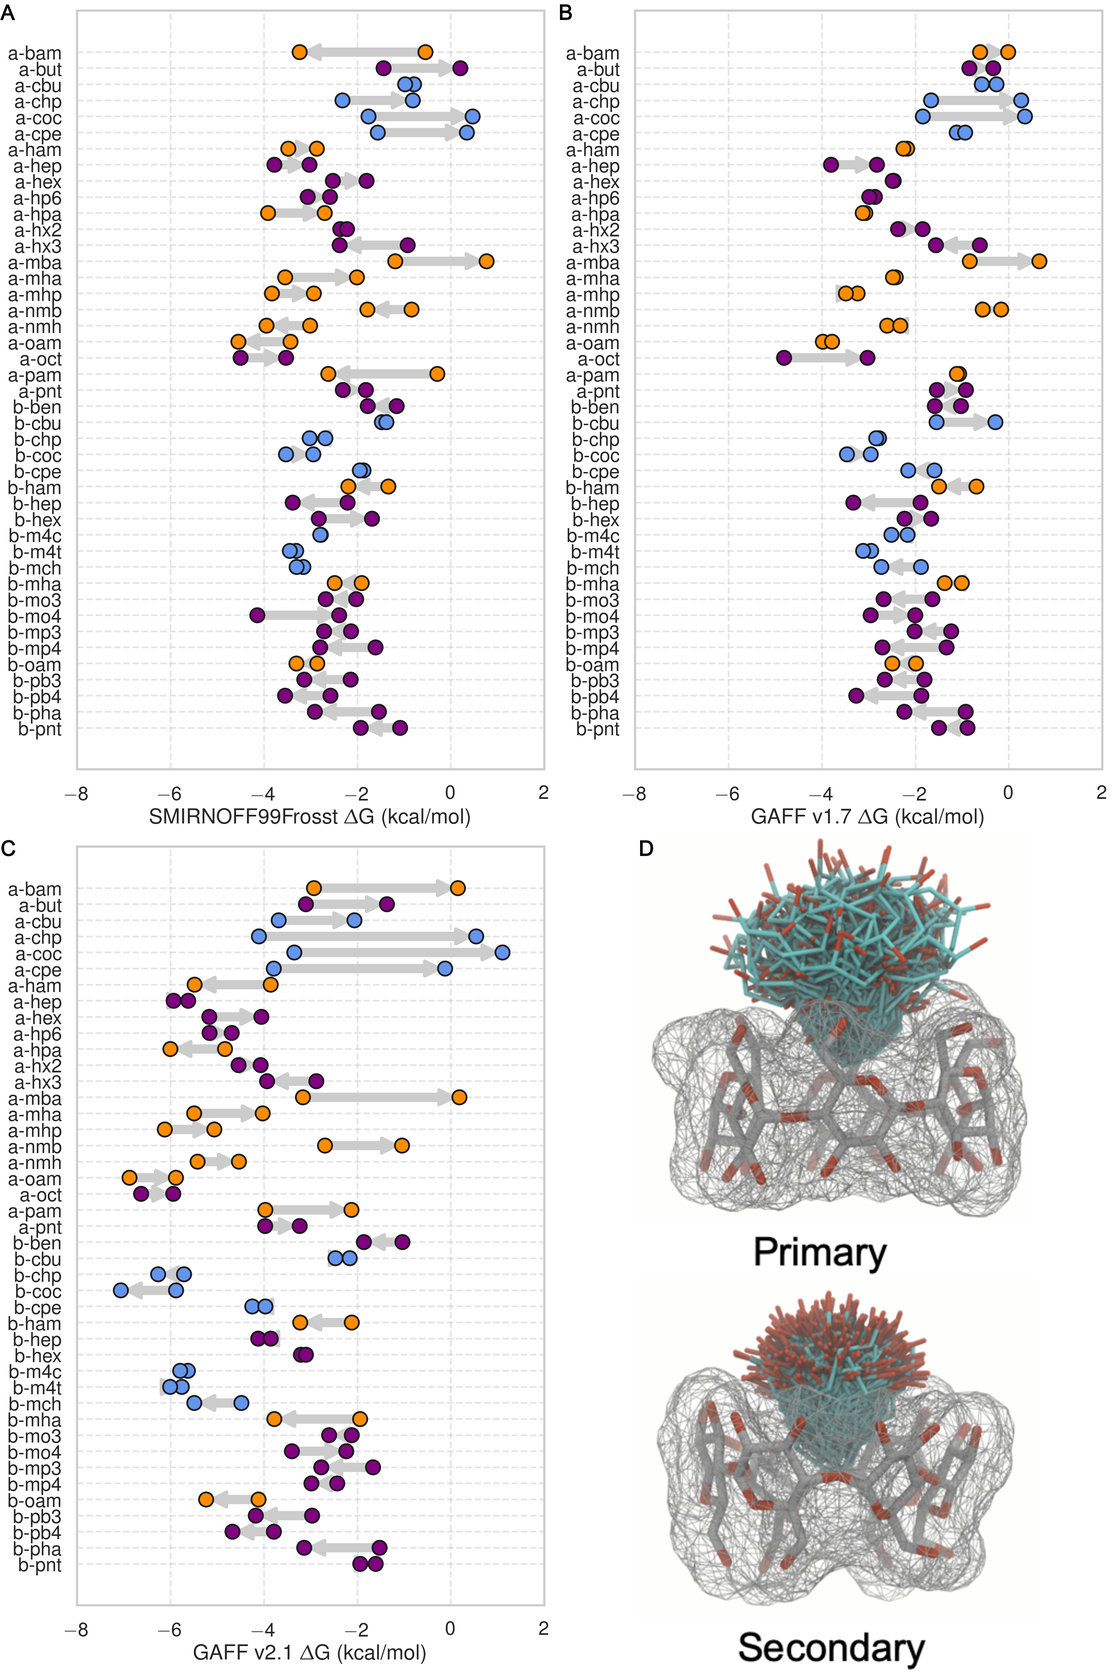
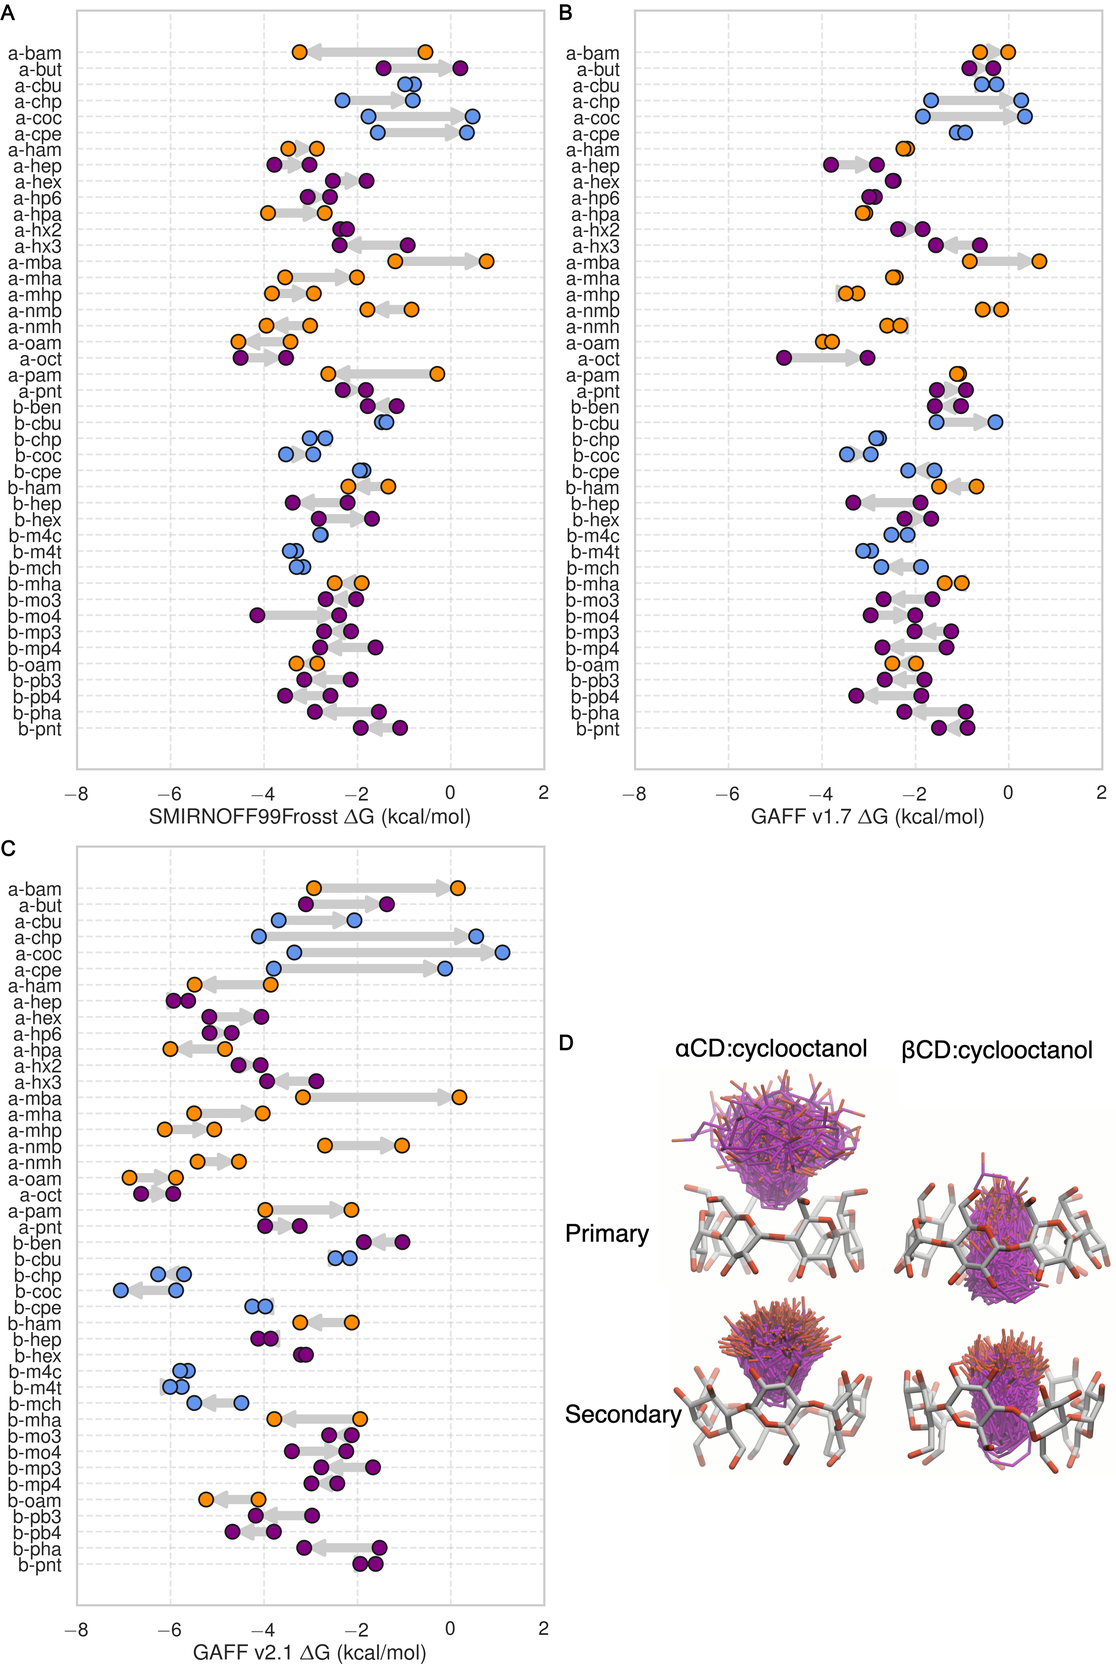
MKG edits through methods (#54)
* Edits to Abstract

Various small edits for style and clarity, and a couple of suggestions rendered as **comment**.

* Minor edits to Introduction for style and clarity

Nothing earth-shattering...

* Partial edits of Methods... tbc

* Minor edits

Made some edits for clarity and style and added a few queries/comment for your consideration, Dave.

* Update methods; update cyclooctanol figure

* Merge in updates to abstract and introduction

Changed region(s): [[0.5273, 0.4995, 0.9925, 0.999], [0.5273, 0.718, 0.5893, 0.7492]]

diff --git a/build/merge-subfigures.py b/build/merge-subfigures.py
@@ -3,8 +3,9 @@ import subprocess
 import argparse
 import logging
 
+
 def int_to_letter(int):
-    alphabet = list('abcdefghijklmnopqrstuvwxyz'.upper())
+    alphabet = list("abcdefghijklmnopqrstuvwxyz".upper())
     return alphabet[int]
 
 
@@ -26,8 +27,9 @@ def label(input, output, annotation, pointsize=18):
     logging.debug(command)
     subprocess.call(command, shell=True)
 
+
 def get_sizes(input, width=True):
-    
+
     if width:
         command = f"""
         convert \
@@ -50,9 +52,13 @@ def get_sizes(input, width=True):
     p = subprocess.check_output(command, shell=True)
     return int(p.decode("utf-8"))
 
+
 def resize(input, output, dim, width=True):
-    
+
     print(f"Resizing {args['input'][index]} to tmp/{output}")
+    if not os.path.exists("tmp"):
+        os.makedirs("tmp")
+
     if width:
         command = f"""
         convert \
@@ -73,6 +79,7 @@ def resize(input, output, dim, width=True):
     logging.debug(command)
     subprocess.call(command, shell=True)
 
+
 def tile(output, geometry="2x2", gravity="center"):
     # The `<` means don't make smaller, I think.
 
@@ -87,6 +94,7 @@ def tile(output, geometry="2x2", gravity="center"):
     logging.debug(command)
     subprocess.call(command, shell=True)
 
+
 def clean(mask):
     command = f"""
     rm tmp/{mask}*.png
@@ -100,20 +108,41 @@ if __name__ == "__main__":
     logger = logging.getLogger()
 
     ap = argparse.ArgumentParser()
-    ap.add_argument("-i", "--input", help="Individual files", nargs="+",
-    required=True)
+    ap.add_argument("-i", "--input", help="Individual files", nargs="+", required=True)
     ap.add_argument("-o", "--output", help="Merged file", required=True)
-    ap.add_argument("-g", "--geometry", help="ImageMagick geometry of tiles", 
-    required=False, default="2x2")
-    ap.add_argument("-y", "--gravity", help="ImageMagick gravity of tile alignment", 
-    required=False, default="center")
-    ap.add_argument("-f", "--fontsize", help="Font size of label", 
-    required=False, default="18")
-    ap.add_argument("-r", "--resize", help="Whether to resize smallest", 
-    required=False, default=False, action="store_true")
-    ap.add_argument("-d", "--debug", help="Whether to print debugging information", 
-    required=False, default=False, action="store_true")
-
+    ap.add_argument(
+        "-g",
+        "--geometry",
+        help="ImageMagick geometry of tiles",
+        required=False,
+        default="2x2",
+    )
+    ap.add_argument(
+        "-y",
+        "--gravity",
+        help="ImageMagick gravity of tile alignment",
+        required=False,
+        default="center",
+    )
+    ap.add_argument(
+        "-f", "--fontsize", help="Font size of label", required=False, default="18"
+    )
+    ap.add_argument(
+        "-r",
+        "--resize",
+        help="Whether to resize smallest",
+        required=False,
+        default=False,
+        action="store_true",
+    )
+    ap.add_argument(
+        "-d",
+        "--debug",
+        help="Whether to print debugging information",
+        required=False,
+        default=False,
+        action="store_true",
+    )
 
     args = vars(ap.parse_args())
 
@@ -125,33 +154,32 @@ if __name__ == "__main__":
         print("Determining sizes...")
 
         for figure in args["input"]:
-            sizes.append(get_sizes(input = figure,
-            width = False))            
+            sizes.append(get_sizes(input=figure, width=True))
             print(f"Found dimension {sizes[-1]}")
-        
+
         for index, size in enumerate(sizes):
             if size < max(sizes):
 
-                resize(input = args['input'][index],
-                       output = f"tmp-{index}.png",
-                       dim = max(sizes),
-                       width = False)
+                resize(
+                    input=args["input"][index],
+                    output=f"tmp-{index}.png",
+                    dim=max(sizes),
+                    width=True,
+                )
 
                 args["input"][index] = f"tmp/tmp-{index}.png"
-
 
     for index, figure in enumerate(args["input"]):
 
         if not os.path.exists("tmp"):
             os.makedirs("tmp")
 
-        label(input = figure, 
-            output = f"tmp-{index}.png",
-            annotation = index,
-            pointsize = args["fontsize"])
-        
+        label(
+            input=figure,
+            output=f"tmp-{index}.png",
+            annotation=index,
+            pointsize=args["fontsize"],
+        )
 
-    tile(output = args["output"],
-         geometry = args["geometry"],
-         gravity = args["gravity"])
-    clean(mask = "tmp")
+    tile(output=args["output"], geometry=args["geometry"], gravity=args["gravity"])
+    clean(mask="tmp")

diff --git a/content/03.methods.md b/content/03.methods.md
@@ -5,7 +5,7 @@ In this study, we report the binding thermodynamics of 43 host-guest complexes (
 The complexes consist of either α- or β-cyclodextrin as host molecules and a series of small molecule guests containing ammonium, carboxylate, or cyclic alcohol functional groups.
 The cyclodextrins in the current study are cyclic polymers consisting of six (αCD) or seven (βCD) glucose monomers in the shape of a truncated cone.
 The equilibrium constants and standard molar enthalpies of binding for these 43 complexes have been measured using isothermal titration calorimetry (ITC) and nuclear magnetic resonance spectroscopy (NMR) [@doi:10.1021/jp962715n].
-Calculations on these host-guest systems have been performed previously [@doi:10.1021/acs.jctc.7b00359], and like Henriksen, *et al*., only a single stereoisomer was considered for the 1-methylammonium guests because it was not clear whether a mixture or a pure solution was used in Rekharsky, et al. [@doi:10.1021/jp962715n], and the ΔG difference between each stereoisomer is expected to be < 0.1 kcal/mol [@doi:10.1021/ja9921118].
+Calculations on these host-guest systems have been performed previously [@doi:10.1021/acs.jctc.7b00359], and, as in the prior study, we considered only a single stereoisomer for the 1-methylammonium guests because it was not clear whether a mixture or a pure solution was used in Rekharsky, et al. [@doi:10.1021/jp962715n], and the ΔG difference between each stereoisomer is expected to be < 0.1 kcal/mol [@doi:10.1021/ja9921118].
 
 ![Structures of the two cyclodextrin hosts and 33 guest molecules in this study which together comprise 43 unique host-guest pairs.](images/host-guest-pairs.png){#fig:host-guest-pairs}
 
@@ -72,12 +72,12 @@ GAFF v1.7 bond, angle, torsion, and Lennard-Jones parameters were applied using 
 GAFF v2.1 parameters were applied in an identical manner to the GAFF v1.7 parameters, using the `tleap` program distributed with AmberTools18 and substituting `leaprc.gaff` for `leaprc.gaff2` in the `tleap` input file.
 
 To apply SMIRNOFF99Frosst parameters, we followed a [multistep process](https://github.com/slochower/smirnoff-host-guest/blob/master/02-convert-APR-files.ipynb), beginning with the AMBER-format `.prmtop` and `.inpcrd` GAFF v1.7 files.
-The host and guest molecules were parameterized with the version 0.0.3 of the Open Force Field Toolkit, which reads molecular coordinates and topologies and creates an serialized repesentation of the molecular system, version 1.0.5 of the SMIRNOFF99Frosst force field, specified in version 1.0 of the SMIRNOFF format.
-Once parameterized with SMIRNOFF99Frosst, the toplogy and coordinates for the host-guest complex was combined with the solvent and ions, which retained their TIP3P water parameters and Joung-Cheatham ion parameters, respectively.
+The host and guest molecules were parameterized with version 0.0.3 of the Open Force Field Toolkit, which reads molecular coordinates and topologies and creates a serialized representation of the molecular system, version 1.0.5 of the SMIRNOFF99Frosst force field, specified in version 1.0 of the SMIRNOFF format.
+Once parameterized with SMIRNOFF99Frosst, the topology and coordinates for the host-guest complex were combined with the solvent and ions, which retained their TIP3P water parameters and Joung-Cheatham ion parameters, respectively.
 This was accomplished by the `ParmEd` program [@doi:10.1007/s10822-016-9977-1], which enables saving the OpenMM system created by the Open Force Field Toolkit in AMBER-format `.prmtop` and `.inpcrd` files.
 
 ### Thermodynamic calculation
-We used the attach-pull-release (APR) method as implemented in the open source package pAPRika version 0.0.3, to calculate absolute binding free energies.
+We used the attach-pull-release (APR) method, as implemented in the open source package pAPRika version 0.0.3, to calculate absolute binding free energies.
 A complete description of the APR method has been provided in the literature [@doi:10.1021/acs.jctc.5b00405; @doi:10.1002/jcc.23398; @doi:10.1007/s10822-014-9735-1; @doi:10.1021/ct5004109].
 The attachment and release phases consisted of 15 independent windows.
 During the attachment phase, the force constants on the host and guest are scaled by a $\lambda$ parameter that goes from $\lambda = 0$, at which point all restraints are turned off, to $\lambda = 1$, at which point all restraints are at their maximum force constant. 
@@ -86,7 +86,7 @@ Conformational restraints were applied between neighboring glucose units of the 
 These restraints were applied along the pseudodihedrals $\ce{{ "{{" }}O5}_n-{C1}_n-{O1}_n-{C4}_{n+1{{ "}}" }}$ and $\ce{{ "{{" }}C1}_n-{O1}_n-{C4}_{n+1}-{C5}_{n+1{{ "}}" }}$ to improve convergence and sampling of the bound state (Figure @fig:atom-names for atom names). 
 To further improve sampling of weak-binding guests, we applied a hard wall restraint that confined the guest molecule to within a sphere of 12.3 and 13.5 Å of αCD and βCD, respectively, during the bound state.
 The release phase is the conceptual reverse of the attach phase, in which the conformational restraints on the host are gradually turned off ($\lambda =1 \rightarrow 0$) in the absence of the guest.
-This explicit release phase is performed once for αCD and once for βCD. 
+This explicit release phase is performed once for αCD and once for βCD, as it is independent of guest molecule. 
 Finally, an analytic correction is performed to compute the work of moving the guest from the restricted volume enforced by the APR restraints to standard state at 1 M concentration. 
 
 The pulling phase consisted of 45 independent, equally spaced windows. 
@@ -97,29 +97,36 @@ Due to the asymmetry of the primary and secondary alcohols of cyclodextrin (Figu
 To account for this effect, we separately compute the binding free energy and enthalpy for each orientation [@doi:10.1021/acs.jctc.5b00405] and combine the results to produce a single value for each host-guest combination using the following equation:
 
 \begin{equation}
-\Delta G = -RT \ln(\exp(-\beta \Delta G_\text{primary}) + \exp(-\beta \Delta G_\text{secondary})).
+\Delta G^\circ = -RT \ln(\exp(-\beta \Delta G_\text{primary}^\circ) + \exp(-\beta \Delta G_\text{secondary}^\circ)).
 \end{equation}
 
-In this manuscript, we refer to calculations whereby the guest is pulled out of the primary face of cyclodextrin with a `-p` suffix and calculations whereby the guest is pulled out of the secondary orientation with a `-s` suffix.
+The total binding enthalpy is weighted by both the binding enthalpy and binding free energy in each orientation using the following equation:
 
-Thermodynamic integration was used to compute the binding free energy (ΔG). 
+\begin{equation}
+\Delta H = \frac{ \Delta H_\text{primary} \exp(-\beta \Delta G_\text{primary}) + \Delta H_\text{secondary} \exp(-\beta \Delta G_\text{secondary})}{\exp(-\beta \Delta G_\text{primary}) + \exp(-\beta \Delta G_\text{secondary})}.
+\end{equation}
+
+In this manuscript, we refer to calculations where the guest is pulled out of the primary face of cyclodextrin with a `-p` suffix and calculations whereby the guest is pulled out of the secondary orientation with a `-s` suffix.
+
+Thermodynamic integration was used to compute the binding free energy (ΔG°). 
 The binding enthalpy (ΔH) was computed as the difference in mean potential energy of the bound state (in the absence of any restraints) and the unbound state (where the guest is held far away from the host, but the conformational restraints on the host are disabled).
-The binding entropy (ΔS) was computed by subtraction using ΔG and ΔH.
+The binding entropy (ΔS°) was computed by subtraction using ΔG° and ΔH.
 
 ### Simulations
-Simulations were performed with the `pmemd.cuda` module of AMBER 16 (calculations with the GAFF v1.7 force field) and AMBER 18 (calculations with the GAFF v2.1 and SMIRNOFF99Frosst force fields) molecular dynamics software [@url:http://www.ambermd.org]. 
+Simulations were performed with the `pmemd.cuda` module of AMBER 16 (calculations with the GAFF v1.7 force field) and AMBER 18 (calculations with the GAFF v2.1 and SMIRNOFF99Frosst force fields) molecular dynamics software [@url:http://www.ambermd.org; @raw:amber2018]. 
 Each window for each system was independently solvated and simulated.
 The host-guest simulations using GAFF v1.7 were previously published in Henriksen, *et al.*  [@doi:10.1021/acs.jctc.7b00359] and are described in additional detail therein.
 Solvation consisted of 2000 TIP3P waters for the αCD systems and 2210 waters for the βCD systems in an orthorhombic box. 
-The host and guest were oriented via non-interacting dummy atoms along the simulation box $z$ axis, to create a rectangular periodic box, reducing the amount of solvent required for the calculation.
+The host and guest were oriented via non-interacting dummy atoms along the simulation box's long $z$ axis, to allow use of an elongated periodic box that reduces the amount of solvent required for the calculation.
 Each simulation contained enough Na^+^ or Cl^-^ ions to neutralize the host-guest complex and an additional 50 mM NaCl to match the experimental conditions in [@doi:10.1021/jp962715n]. 
-In the GAFF simulations, hydrogen mass repartitioning [@doi:10.1021/ct5010406] was used to adjust the mass of hydrogen by a factor of 3, keeping the total molecular weight of each molecule constant, enabling a simulation timestep of 4 fs. 
-Equilibration consisted of 50,000 steps of energy minimization, 100 ps of heating from 0 to 300 K, followed by 2000 ps of additional NPT simulations. 
+In the GAFF simulations, hydrogen mass repartitioning [@doi:10.1021/ct5010406] was used to adjust the mass of hydrogen by a factor of 3, keeping the total molecular weight of each molecule constant and enabling a simulation timestep of 4 fs. 
+Hydrogen mass repartitioning produces excellent agreement on thermodynamic observables for other cyclodextrin-guest calculations, with deviations of 0.05 kcal/mol on ΔG° and 0.1 kcal/mol on ΔH [@doi:10.1021/acs.jctc.5b00405]
+Equilibration consisted of 50,000 steps of energy minimization, 100 ps of heating from 0 to 300 K, and then 2000 ps of additional NPT simulation. 
 A Langevin thermostat, the Monte Carlo barostat, a nonbonded cutoff of 9 Å and default PME parameters, were used for the NPT simulations.
 An isotropic analytic correction to the Lennard-Jones interactions is applied beyond the cutoff distance [@doi:10.1063/1.2799191].
-Production NPT simulations were run for a minimum of 2.5 ns and maximum of 50 ns per window, except for the windows used to calculate the enthalpy, which were simulated for 1 μs. 
-In the GAFF v1.7 and GAFF v2.1 simulations, the exact length of each window's simulation was determined by the uncertainty in the work done in each λ window. 
-For restraint energy $U$ in $\lambda$ window $i$, each window (except for the windows used to calculate ΔH) was simulated until the value $w(\lambda_i)$:
+Production NPT simulations were run for a minimum of 2.5 ns and maximum of 50 ns per window, except for the windows used to calculate the enthalpy, which were each simulated for 1 μs. 
+In the GAFF v1.7 and GAFF v2.1 simulations, the exact length of each window's simulation was determined by the uncertainty in the work done in each λ window.
+In particular, for restraint energy $U$ in $\lambda$ window $i$, each window (except for the windows used to calculate ΔH) was simulated until the value of $w(\lambda_i)$, defined as
 
 $$
     w(\lambda_i) = 
@@ -132,24 +139,20 @@ $$ {#eq:scale_w}
 
 fell below a threshold of 0.02 kcal/mol during the attach phase and 0.1 kcal/mol during the pull phase.
 The second term in Equation @eq:scale_w scales the uncertainty in the work in each λ window by the nonuniform spacing of the λ windows.
-
 Excluding the first and last window, the average window length was 11.8 ns and 5.39 ns for GAFF v1.7 and GAFF v2.1 simulations, respectively.
-In the interest of simplicity, SMIRNOFF99Frosst production NPT simulations were run for 10 ns per window, except for the first and last window which ran for 1 μs to calculate ΔH.
-In all cases, the errors on ΔG and ΔH are of the same magnitude.
+We took a more direct approach with the SMIRNOFF99Frosst simulations, targeting uncertainties of the same magnitude as in the GAFF simulations, by running each window for a constant length of 10 ns, except for the first and last window which ran for 1 μs to converge ΔH.
 
 ### Statistics
-The uncertainty in the work done by each restraint in each simulation window, $\left( \frac{\partial U}{\partial \lambda_i} \right)_\text{SEM}$, was estimated using blocking analysis [@doi:10.1063/1.457480].
-To use the blocking analysis method, each simulation window is divided into groups of data points ("blocks") whose sizes are the integer factors of the number of simulation frames in that window.
-The mean and SEM of a property of interest are calculated inside each block, and the maximum of all the individual block SEMs is the reported SEM for that property in that window.
-Then, using the mean and SEM of $\frac{\partial U}{\partial \lambda}$ in each window, resampling with replacement was employed to create 100,000 bootstrapped splines.
-The standard deviation in the integrated work, $\int \frac{\partial U}{\partial \lambda_i}\,\mathrm{d}\lambda_i$, of the 100,000 curves was used to determine the standard error of the mean of ΔG.
-The standard error of the mean of ΔH was computed from the standard error of the mean of the total potential energy in each end point window, estimated using blocking analysis, added in quadrature.
-The standard error of the mean −TΔS was calculated using the uncertainties in ΔG and ΔH added in quadrature.
+The uncertainty in the work done by each restraint in each simulation window, $\left( \frac{\partial U}{\partial \lambda_i} \right)_\text{SEM}$, was estimated using blocking analysis [@doi:10.1063/1.457480], in a manner which has been shown to yield good agreement with uncertainties obtained from independent replicates [@doi:10.1021/acs.jctc.5b00405].
+In particular, rather than looking for a plateau in the SEM as the size of the blocks increased, as originally described by Flyvbjerg and Peterssen [@doi:10.1063/1.457480], we instead use the largest standard error of the mean (SEM) obtained for any block size. 
+This avoids the requirement of detecting a plateau and yields a more conservative estimate; i.e., a larger SEM.
+Then, using Gaussians with the mean and SEM of $\frac{\partial U}{\partial \lambda}$ in each window, new values of $\frac{\partial U}{\partial \lambda}$ were bootstrap sampled for each window 100,000 times and combined to create artificial data for 100,000 notional APR calculations.
+These were integrated across all windows with splines to generate 100,000 estimates of ΔG°.
+We report the mean and standard deviation of these 100,000 results as the final mean and its SEM.
+The SEM of ΔH was computed from the SEM of the total potential energy in each end point window, estimated using blocking analysis, added in quadrature.
+The standard error of the mean of −TΔS° was calculated using the uncertainties in ΔG° and ΔH added in quadrature.
 
-For each force field, we computed the root mean squared error (RMSE), mean signed error (MSE), the coefficient of determination (R^2^), Kendall's rank correlation coefficient (τ), and the slope and intercept of the computed properties relative to the experimental values.
-We also assess how the force fields compare to each other using these statistics.
-Comparisons with experiment have 43 measurements, for the 43 unique host-guest complexes listed in Table @tbl:host-guests; comparisons between force fields have 86 data points, representing the two separate calculations performed for each host-guest pair.
-
-The overall RMSE and R^2^ statistics for each comparison are reported as the sample mean estimated from using all the data with the 95% confidence interval, from bootstrapping, in brackets.
-These values are estimated by using the uncertainties assigned to each data point to create 100,000 hypothetical graphs through resampling with replacement.
-The R^2^ values for each functional group subset is also reported in the bottom right corner in each graph.
+For each force field, we computed the root mean squared error (RMSE), mean signed error (MSE), the coefficient of determination (R^2^), Kendall's rank correlation coefficient (τ), and the slope and intercept of the linear regressions of the computed properties against the experimental values.
+The R^2^ values for the subsets of ligand with each are also reported in the bottom right corner in each graph.
+Comparisons with experiment have 43 measurements, for the 43 unique host-guest complexes listed in Table @tbl:host-guests; comparisons between force fields have 86 data points, representing the calculations for the two orientations of the guest, "p" and "s", in the binding site (see above).
+The overall RMSE and R^2^ statistics for each comparison are reported as the sample mean estimated from using all the data, with the 95% confidence interval, from bootstrapping, in brackets.
